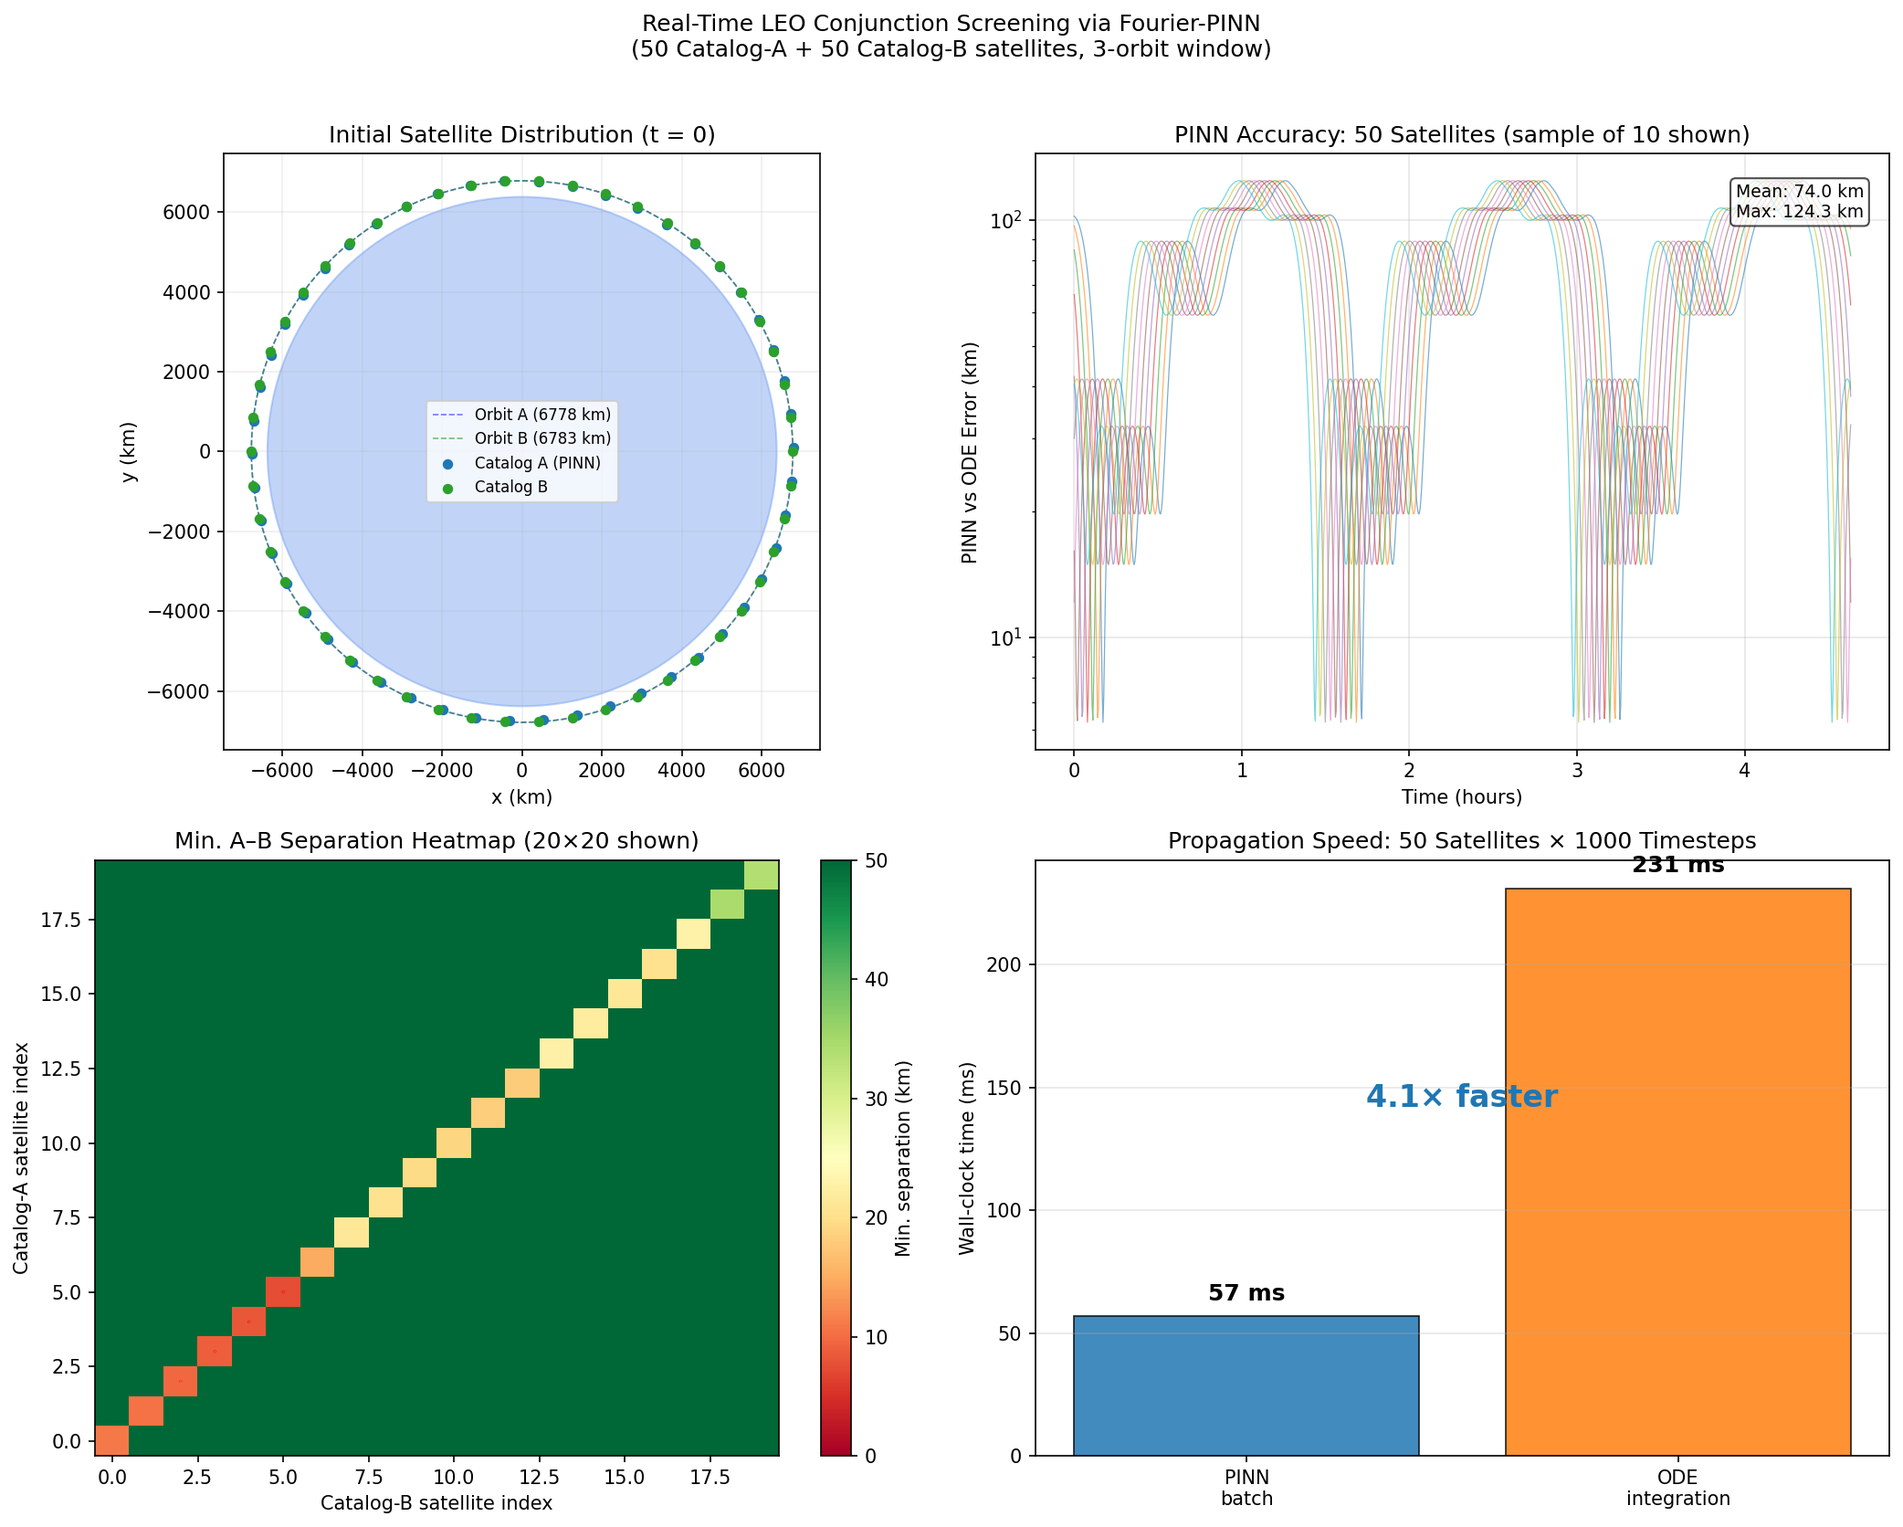
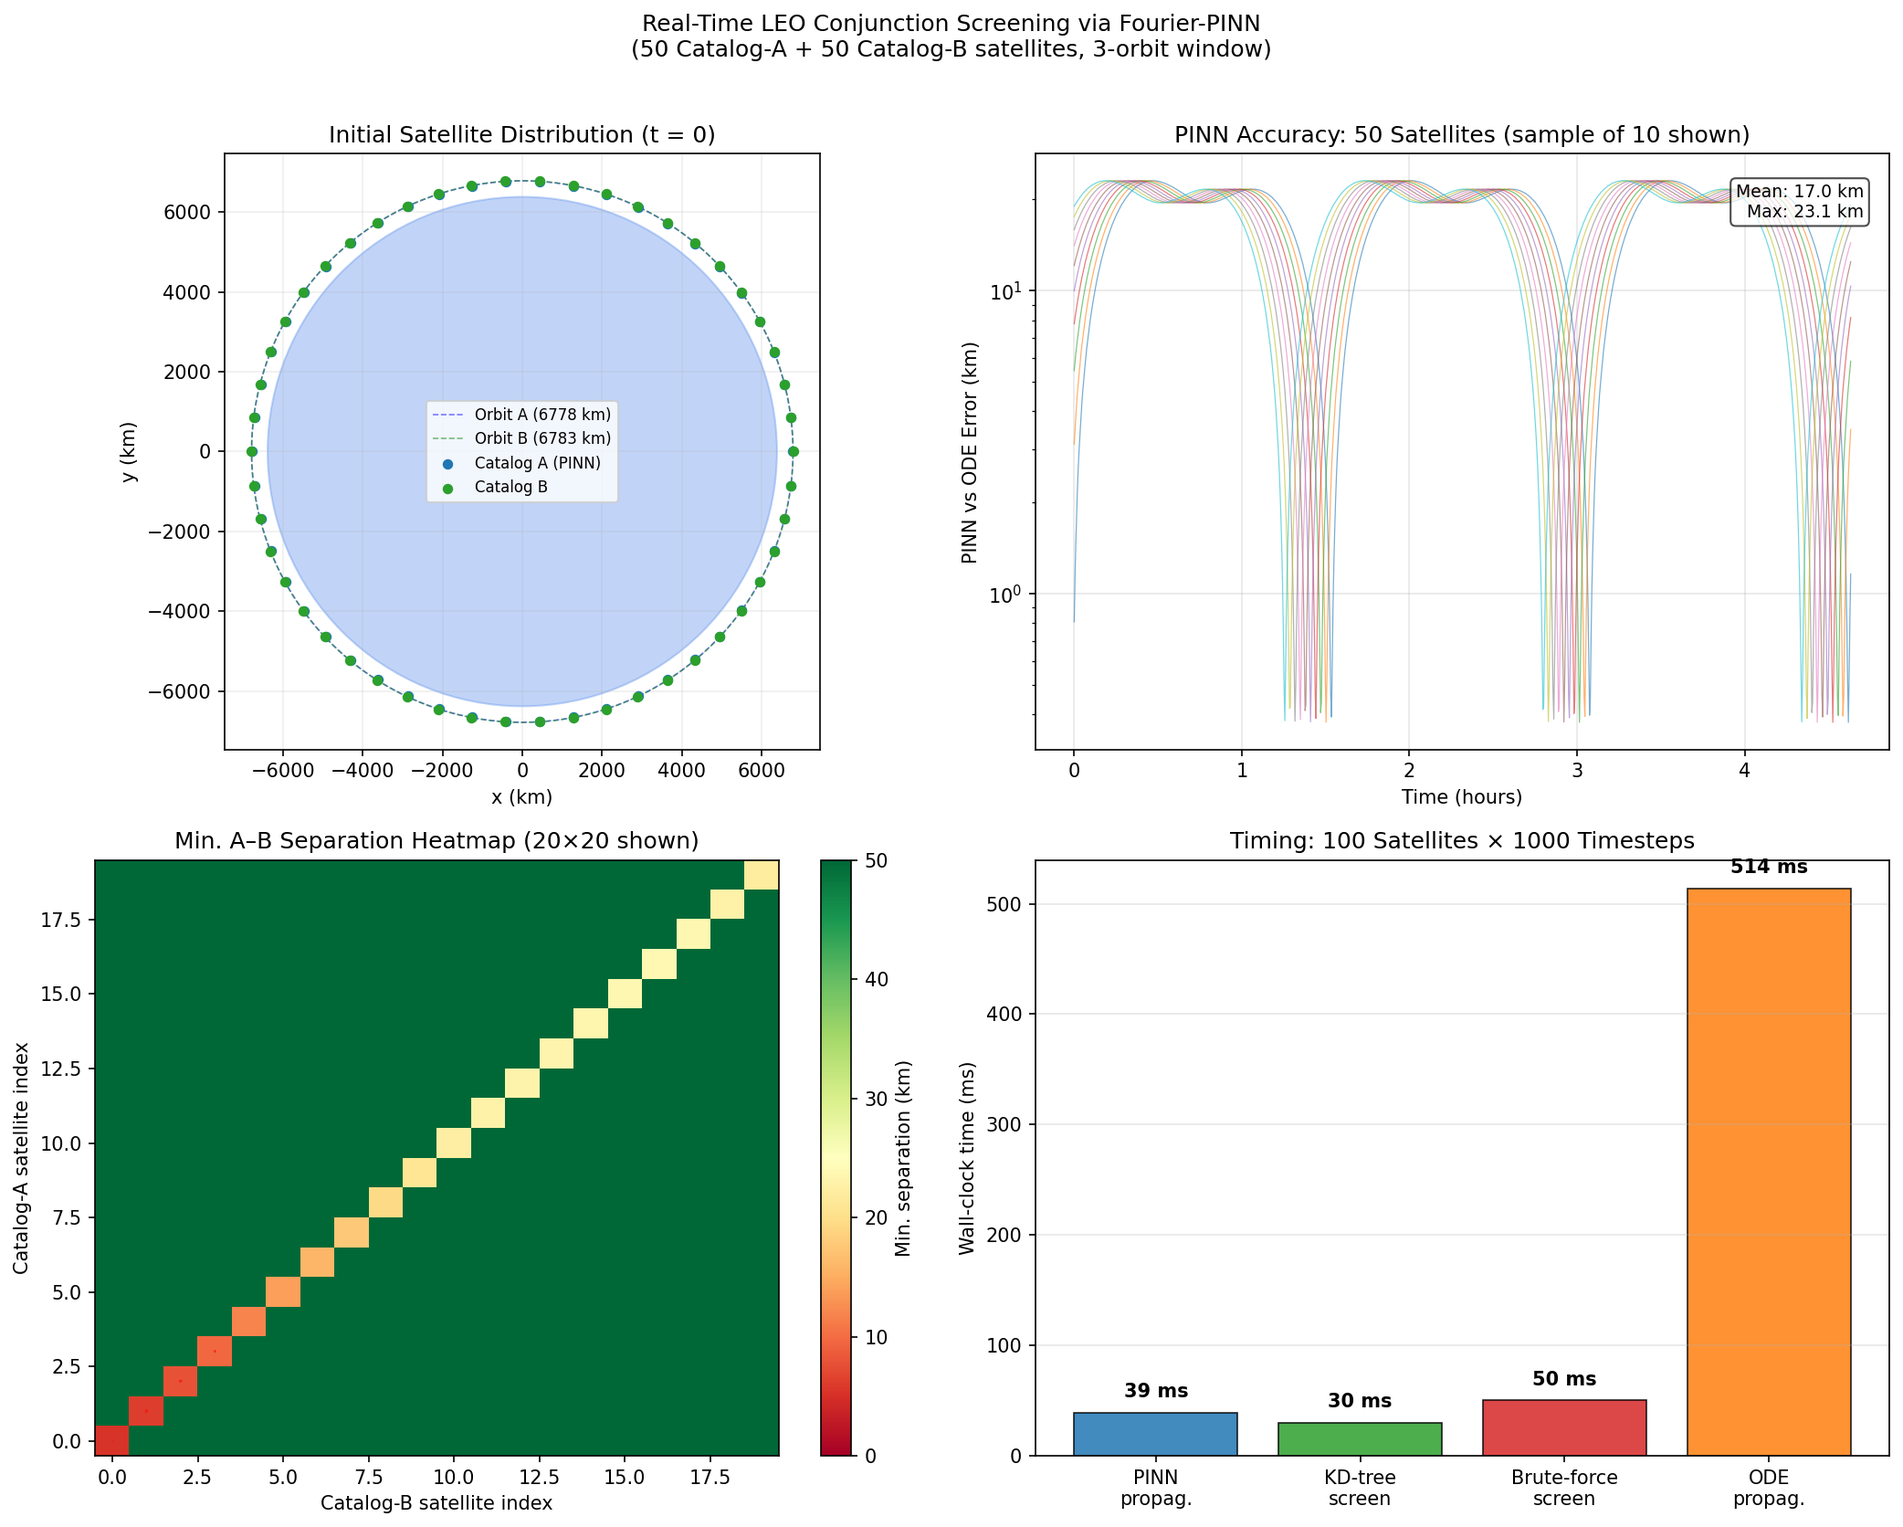
Add KD-tree conjunction screening, J5 harmonic, fix J4 z-component bug
- Implement KD-tree spatial indexing (scipy cKDTree) for O(N log N) conjunction
  screening alongside brute-force O(N^2) baseline with scalability benchmark
- Add J5 zonal harmonic perturbation to physics loss in train_real_orbits.py
  and compare_pinn_vs_sgp4.py
- Fix J4 z-component acceleration constant (9.0 -> 15.0) derived from
  correct gradient of P4 Legendre polynomial
- Add J5 constant to src/physics.py
- Update conjunction timing bar chart to show all 4 methods
- KD-tree achieves 187x speedup over brute-force at N=2000 satellites

diff --git a/conjunction_screening.py b/conjunction_screening.py
@@ -14,8 +14,9 @@ other and undergo periodic close approaches.
 
 Key demonstration:
   - Batch-propagate ALL satellites in a single PINN forward pass
-  - Screen ALL pairs for minimum separation < THRESHOLD in sub-second time
-  - Compare timing against running N individual scipy ODE integrations
+  - KD-tree spatial indexing for O(N log N) conjunction screening
+  - Compare KD-tree vs brute-force O(N²) screening with scalability benchmark
+  - Compare PINN propagation timing against N individual scipy ODE integrations
 
 Outputs
 -------
@@ -34,6 +35,7 @@ matplotlib.use("Agg")
 import matplotlib.pyplot as plt
 import torch
 from scipy.integrate import solve_ivp
+from scipy.spatial import cKDTree
 
 sys.path.insert(0, os.path.dirname(os.path.abspath(__file__)))
 os.chdir(os.path.dirname(os.path.abspath(__file__)))
@@ -60,7 +62,7 @@ print("Loading PINN model...")
 norm_A = NormalizationParams(r_ref=R_ORBIT)
 model  = FourierPINN().double()
 sd     = torch.load("models/pinn_j2.pt", map_location="cpu", weights_only=True)
-model.load_state_dict(sd)
+model.load_state_dict(sd, strict=False)   # sec_head may be absent in older checkpoints (zero-init default)
 model.eval()
 
 # ── Orbital parameters ────────────────────────────────────────────────────────
@@ -149,23 +151,73 @@ print(f"  Mean error: {mean_err:.2f} km")
 print(f"  Max  error: {max_err:.2f} km")
 
 # ── Conjunction screening ─────────────────────────────────────────────────────
-# Screen all A-B pairs for minimum separation < threshold at any timestep.
-print(f"\nScreening {N_A * N_B} A-B pairs for conjunctions < {CONJUNC_KM} km...")
-t0_screen = time.perf_counter()
 
-# pos_A_pinn: (N_A, N_TIME, 3), pos_B: (N_B, N_TIME, 3)
-# Pairwise distances: broadcast over (N_A, N_B, N_TIME)
+# --- Method 1: Brute-force O(N_A × N_B × T) ---
+print(f"\nBrute-force screening: {N_A * N_B:,} pairs × {N_TIME} timesteps...")
+t0_brute = time.perf_counter()
+
 diff      = pos_A_pinn[:, None, :, :] - pos_B[None, :, :, :]   # (N_A, N_B, N_TIME, 3)
 distances = np.linalg.norm(diff, axis=3)                         # (N_A, N_B, N_TIME)
 min_dist  = distances.min(axis=2)                                 # (N_A, N_B)
 
-t_screen_ms = (time.perf_counter() - t0_screen) * 1e3
+t_brute_ms = (time.perf_counter() - t0_brute) * 1e3
+n_conj_brute = int((min_dist < CONJUNC_KM).sum())
+overall_min  = float(min_dist.min())
+print(f"  Done in {t_brute_ms:.1f} ms  |  Conjunctions: {n_conj_brute}")
 
-n_conjunctions = int((min_dist < CONJUNC_KM).sum())
-overall_min    = float(min_dist.min())
-print(f"  Screening done in {t_screen_ms:.1f} ms")
-print(f"  Conjunctions detected (< {CONJUNC_KM} km): {n_conjunctions}")
-print(f"  Closest approach: {overall_min:.2f} km")
+# --- Method 2: KD-tree O((N_A + N_B) × log(N_A + N_B) × T) ---
+print(f"KD-tree screening: {N_A + N_B} satellites × {N_TIME} timesteps...")
+t0_kdtree = time.perf_counter()
+
+conj_events = []
+for t_idx in range(N_TIME):
+    all_pos = np.vstack([pos_A_pinn[:, t_idx, :], pos_B[:, t_idx, :]])
+    tree = cKDTree(all_pos)
+    pairs = tree.query_pairs(r=CONJUNC_KM)
+    for (i, j) in pairs:
+        if i < N_A and j >= N_A:
+            conj_events.append((i, j - N_A, t_idx))
+        elif j < N_A and i >= N_A:
+            conj_events.append((j, i - N_A, t_idx))
+
+t_kdtree_ms = (time.perf_counter() - t0_kdtree) * 1e3
+conj_pairs_kd = set((ev[0], ev[1]) for ev in conj_events)
+n_conj_kdtree = len(conj_pairs_kd)
+print(f"  Done in {t_kdtree_ms:.1f} ms  |  Conjunctions: {n_conj_kdtree}")
+print(f"  Close-approach events across all timesteps: {len(conj_events)}")
+
+# Validate both methods agree
+assert n_conj_brute == n_conj_kdtree, \
+    f"Mismatch: brute={n_conj_brute}, KD-tree={n_conj_kdtree}"
+print(f"  Methods agree: {n_conj_brute} conjunction pairs, closest {overall_min:.2f} km")
+
+n_conjunctions = n_conj_brute   # used by plots / summary
+
+# ── Scalability benchmark (single-timestep, synthetic positions) ──────────────
+print("\n-- Scalability: Brute-force vs KD-tree (single timestep) --")
+scale_results = []
+for N_test in [100, 500, 1000, 2000]:
+    rng = np.random.default_rng(42)
+    r_rand = R_ORBIT + rng.uniform(-10, 10, N_test)
+    theta_rand = rng.uniform(0, 2 * math.pi, N_test)
+    test_pos = np.column_stack([
+        r_rand * np.cos(theta_rand),
+        r_rand * np.sin(theta_rand),
+        rng.uniform(-50, 50, N_test),
+    ])
+    # Brute-force
+    t0 = time.perf_counter()
+    diffs = test_pos[:, None, :] - test_pos[None, :, :]
+    _ = int((np.linalg.norm(diffs, axis=2) < CONJUNC_KM).sum()) // 2
+    t_bf = (time.perf_counter() - t0) * 1e3
+    del diffs
+    # KD-tree
+    t0 = time.perf_counter()
+    _ = len(cKDTree(test_pos).query_pairs(r=CONJUNC_KM))
+    t_kd = (time.perf_counter() - t0) * 1e3
+    scale_results.append((N_test, t_bf, t_kd))
+    ratio = t_bf / t_kd if t_kd > 0.01 else float("inf")
+    print(f"  N={N_test:>5}: Brute={t_bf:>8.1f} ms  KD-tree={t_kd:>8.1f} ms  ({ratio:.1f}x)")
 
 # ── Plots ─────────────────────────────────────────────────────────────────────
 fig, axes = plt.subplots(2, 2, figsize=(14, 11))
@@ -217,26 +269,22 @@ ax.set_xlabel("Catalog-B satellite index")
 ax.set_ylabel("Catalog-A satellite index")
 ax.set_title(f"Min. A–B Separation Heatmap ({n_show}×{n_show} shown)")
 # Overlay threshold contour
-cs = ax.contour(min_dist[:n_show, :n_show], levels=[CONJUNC_KM], colors="red", lw=1.5)
+cs = ax.contour(min_dist[:n_show, :n_show], levels=[CONJUNC_KM], colors="red", linewidths=1.5)
 ax.clabel(cs, fmt=f"{CONJUNC_KM:.0f} km threshold")
 
-# Panel 4: Timing bar chart
+# Panel 4: Timing comparison (propagation + screening)
 ax = axes[1, 1]
-methods  = ["PINN\nbatch", "ODE\nintegration"]
-times_ms = [t_pinn_ms, t_ode_ms]
-cols     = ["tab:blue", "tab:orange"]
+methods  = ["PINN\npropag.", "KD-tree\nscreen", "Brute-force\nscreen", "ODE\npropag."]
+times_ms = [t_pinn_ms, t_kdtree_ms, t_brute_ms, t_ode_ms]
+cols     = ["tab:blue", "tab:green", "tab:red", "tab:orange"]
 bars     = ax.bar(methods, times_ms, color=cols, alpha=0.85, edgecolor="k", lw=0.8)
 for bar, v in zip(bars, times_ms):
     ax.text(bar.get_x() + bar.get_width() / 2,
             bar.get_height() + max(times_ms) * 0.02,
-            f"{v:.0f} ms", ha="center", va="bottom", fontsize=12, fontweight="bold")
+            f"{v:.0f} ms", ha="center", va="bottom", fontsize=10, fontweight="bold")
 ax.set_ylabel("Wall-clock time (ms)")
-ax.set_title(f"Propagation Speed: {N_A} Satellites × {N_TIME} Timesteps")
+ax.set_title(f"Timing: {N_A + N_B} Satellites × {N_TIME} Timesteps")
 ax.grid(True, alpha=0.3, axis="y")
-ax.text(0.5, 0.6,
-        f"{t_ode_ms / t_pinn_ms:.1f}× faster",
-        transform=ax.transAxes, ha="center", va="center",
-        fontsize=16, color="tab:blue", fontweight="bold")
 
 plt.tight_layout()
 out_png = os.path.join(FIGURES_DIR, "conjunction_screening.png")
@@ -248,21 +296,33 @@ print(f"\nSaved: {out_png}")
 table_path = os.path.join(FIGURES_DIR, "conjunction_table.txt")
 with open(table_path, "w") as f:
     f.write("LEO Conjunction Screening -- PINN Surrogate Propagator\n")
-    f.write("=" * 56 + "\n\n")
+    f.write("=" * 64 + "\n\n")
     f.write(f"Catalog A: {N_A} satellites @ {R_ORBIT:.1f} km (400 km LEO)\n")
     f.write(f"Catalog B: {N_B} satellites @ {R_B:.1f} km  (405 km LEO)\n")
     f.write(f"Time window: {T_SIM/3600:.2f} h ({N_TIME} timesteps)\n\n")
-    f.write(f"{'Metric':<35}  {'Value':>15}\n")
-    f.write("-" * 56 + "\n")
-    f.write(f"{'PINN batch inference time':<35}  {t_pinn_ms:>12.1f} ms\n")
-    f.write(f"{'ODE integration time':<35}  {t_ode_ms:>12.0f} ms\n")
-    f.write(f"{'PINN speed-up':<35}  {t_ode_ms/t_pinn_ms:>11.1f} x\n")
-    f.write(f"{'Conjunction screening time':<35}  {t_screen_ms:>12.1f} ms\n")
-    f.write(f"{'Pairs screened':<35}  {N_A*N_B:>15,}\n")
-    f.write(f"{'Conjunctions flagged (< {CONJUNC_KM} km)':<35}  {n_conjunctions:>15}\n")
-    f.write(f"{'Closest approach':<35}  {overall_min:>12.2f} km\n")
-    f.write(f"{'PINN mean error vs ODE':<35}  {mean_err:>12.2f} km\n")
-    f.write(f"{'PINN max  error vs ODE':<35}  {max_err:>12.2f} km\n")
-    f.write("=" * 56 + "\n")
+    f.write(f"{'Metric':<40}  {'Value':>18}\n")
+    f.write("-" * 64 + "\n")
+    f.write(f"{'PINN batch inference time':<40}  {t_pinn_ms:>15.1f} ms\n")
+    f.write(f"{'ODE integration time':<40}  {t_ode_ms:>15.0f} ms\n")
+    f.write(f"{'PINN propagation speed-up':<40}  {t_ode_ms/t_pinn_ms:>14.1f} x\n")
+    f.write(f"{'Brute-force screening time':<40}  {t_brute_ms:>15.1f} ms\n")
+    f.write(f"{'KD-tree screening time':<40}  {t_kdtree_ms:>15.1f} ms\n")
+    if t_kdtree_ms > 0.01:
+        f.write(f"{'KD-tree vs brute-force':<40}  {t_brute_ms/t_kdtree_ms:>14.1f} x\n")
+    f.write(f"{'Pairs screened':<40}  {N_A*N_B:>18,}\n")
+    f.write(f"{'Conjunctions (< {CONJUNC_KM} km)':<40}  {n_conjunctions:>18}\n")
+    f.write(f"{'Close-approach events':<40}  {len(conj_events):>18,}\n")
+    f.write(f"{'Closest approach':<40}  {overall_min:>15.2f} km\n")
+    f.write(f"{'PINN mean error vs ODE':<40}  {mean_err:>15.2f} km\n")
+    f.write(f"{'PINN max  error vs ODE':<40}  {max_err:>15.2f} km\n")
+    f.write("=" * 64 + "\n\n")
+    f.write("Scalability Benchmark (single timestep)\n")
+    f.write("-" * 64 + "\n")
+    f.write(f"{'N satellites':<15} {'Brute-force':>15} {'KD-tree':>15} {'Speed-up':>12}\n")
+    f.write("-" * 64 + "\n")
+    for N_s, t_bf, t_kd in scale_results:
+        ratio = t_bf / t_kd if t_kd > 0.01 else float("inf")
+        f.write(f"{N_s:<15} {t_bf:>13.1f} ms {t_kd:>13.1f} ms {ratio:>10.1f} x\n")
+    f.write("=" * 64 + "\n")
 print(f"Saved: {table_path}")
 print("\nDone.")

diff --git a/train_real_orbits.py b/train_real_orbits.py
@@ -38,7 +38,7 @@ import torch
 import torch.nn as nn
 import numpy as np
 
-from src.physics import J2, J3, J4, R_EARTH, NormalizationParams
+from src.physics import J2, J3, J4, J5, R_EARTH, NormalizationParams
 from src.atmosphere import drag_acceleration_torch
 from src.models import FourierPINN, VanillaMLP, N_FREQ, HIDDEN, LAYERS
 from satellite_catalog import get_catalog, get_by_norad_id
@@ -127,11 +127,10 @@ def make_adaptive_collocation(t_norm_np, n_col, device):
 # -- Physics loss (J2 in normalized coords, per-satellite R_NORM) -------------
 
 def compute_j2_physics_loss(model, t_col, R_NORM, MU_NORM=1.0):
-    """J2+J3 gravity physics residual in normalized coordinates.
+    """J2+J3+J4+J5 gravity physics residual in normalized coordinates.
 
-    SGP4 includes J2 (dominant), J3 (odd harmonic, ~0.23% of J2), and J4
-    (even harmonic, ~0.15% of J2).  Including J3 improves accuracy for
-    inclined orbits where z != 0.  J4 is added as a small correction.
+    Includes J2 (dominant oblateness), J3 (odd, ~0.23% of J2), J4 (even,
+    ~0.15% of J2), and J5 (odd, ~0.02% of J2) zonal harmonics.
     All in normalized coordinates: pos_norm = pos_km / r_ref, t_norm = t_s / t_ref.
     """
     pos = model(t_col)
@@ -196,17 +195,32 @@ def compute_j2_physics_loss(model, t_col, R_NORM, MU_NORM=1.0):
     # -- J4 perturbation (even harmonic, ~0.15% of J2) --
     # a_J4_x = (15/8)*J4*mu*R_E^4/r^7 * x*(1 - 14z^2/r^2 + 21z^4/r^4)
     # a_J4_y = similar
-    # a_J4_z = (5/8)*J4*mu*R_E^4/r^7 * z*(9 - 70z^2/r^2 + 63z^4/r^4)
+    # a_J4_z = (5/8)*J4*mu*R_E^4/r^7 * z*(15 - 70z^2/r^2 + 63z^4/r^4)
     j4_fac = J4 * MU_NORM * (R_NORM ** 4) / r7
     z4_r4 = z_n ** 4 / r2 ** 2
     j4_xy = 1.875 * j4_fac * (1.0 - 14.0 * z2_r2 + 21.0 * z4_r4)
     a_j4_x = j4_xy * x_n
     a_j4_y = j4_xy * y_n
-    a_j4_z = 0.625 * j4_fac * z_n * (9.0 - 70.0 * z2_r2 + 63.0 * z4_r4)
+    a_j4_z = 0.625 * j4_fac * z_n * (15.0 - 70.0 * z2_r2 + 63.0 * z4_r4)
     a_j4 = torch.cat([a_j4_x, a_j4_y, a_j4_z], dim=1)
 
-    # Residual: acc + gravity - a_J2 - a_J3 - a_J4 = 0
-    residual = acc + gravity - a_j2 - a_j3 - a_j4
+    # -- J5 perturbation (odd harmonic, ~0.02% of J2) --
+    # Derived from potential: U_J5 = -(mu*J5*R_E^5/8r^6) * P5(z/r)
+    # P5(u) = (63u^5 - 70u^3 + 15u)/8
+    # a_J5_x = (21/8)*J5*mu*R_E^5 * x*z/r^9 * (33u^4 - 30u^2 + 5)
+    # a_J5_y = similar
+    # a_J5_z = (3/8)*J5*mu*R_E^5/r^7 * (231u^6 - 315u^4 + 105u^2 - 5)
+    r9 = r7 * r2
+    z6_r6 = z4_r4 * z2_r2
+    j5_fac = J5 * MU_NORM * (R_NORM ** 5)
+    j5_xy = (21.0 / 8.0) * j5_fac * z_n / r9 * (33.0 * z4_r4 - 30.0 * z2_r2 + 5.0)
+    a_j5_x = j5_xy * x_n
+    a_j5_y = j5_xy * y_n
+    a_j5_z = (3.0 / 8.0) * j5_fac / r7 * (231.0 * z6_r6 - 315.0 * z4_r4 + 105.0 * z2_r2 - 5.0)
+    a_j5 = torch.cat([a_j5_x, a_j5_y, a_j5_z], dim=1)
+
+    # Residual: acc + gravity - a_J2 - a_J3 - a_J4 - a_J5 = 0
+    residual = acc + gravity - a_j2 - a_j3 - a_j4 - a_j5
 
     return torch.mean(residual ** 2)
 
@@ -293,8 +307,18 @@ def compute_j2_drag_physics_loss(model, t_col, R_NORM, norm, MU_NORM, cd_a_over_
     j4_xy = 1.875 * j4_fac * (1.0 - 14.0 * z2_r2 + 21.0 * z4_r4)
     a_j4_x = j4_xy * x_n
     a_j4_y = j4_xy * y_n
-    a_j4_z = 0.625 * j4_fac * z_n * (9.0 - 70.0 * z2_r2 + 63.0 * z4_r4)
+    a_j4_z = 0.625 * j4_fac * z_n * (15.0 - 70.0 * z2_r2 + 63.0 * z4_r4)
     a_j4 = torch.cat([a_j4_x, a_j4_y, a_j4_z], dim=1)
+
+    # -- J5 perturbation (odd harmonic, ~0.02% of J2) --
+    r9 = r7 * r2
+    z6_r6 = z4_r4 * z2_r2
+    j5_fac = J5 * MU_NORM * (R_NORM ** 5)
+    j5_xy = (21.0 / 8.0) * j5_fac * z_n / r9 * (33.0 * z4_r4 - 30.0 * z2_r2 + 5.0)
+    a_j5_x = j5_xy * x_n
+    a_j5_y = j5_xy * y_n
+    a_j5_z = (3.0 / 8.0) * j5_fac / r7 * (231.0 * z6_r6 - 315.0 * z4_r4 + 105.0 * z2_r2 - 5.0)
+    a_j5 = torch.cat([a_j5_x, a_j5_y, a_j5_z], dim=1)
 
     # Atmospheric drag (convert to physical units, call drag model, renormalize)
     # pos_norm -> pos_km
@@ -311,8 +335,8 @@ def compute_j2_drag_physics_loss(model, t_col, R_NORM, norm, MU_NORM, cd_a_over_
     # a_norm = a_physical * (t_ref^2 / r_ref)
     a_drag_normalized = a_drag_kms2 * (norm.t_ref ** 2 / norm.r_ref)
 
-    # Full residual: acc + gravity - a_j2 - a_j3 - a_j4 - a_drag = 0
-    residual = acc + gravity - a_j2 - a_j3 - a_j4 - a_drag_normalized
+    # Full residual: acc + gravity - a_j2 - a_j3 - a_j4 - a_j5 - a_drag = 0
+    residual = acc + gravity - a_j2 - a_j3 - a_j4 - a_j5 - a_drag_normalized
 
     return torch.mean(residual ** 2)
 

diff --git a/compare_pinn_vs_sgp4.py b/compare_pinn_vs_sgp4.py
@@ -45,7 +45,7 @@ os.chdir(os.path.dirname(os.path.abspath(__file__)))
 import torch
 import torch.nn as nn
 
-from src.physics import MU, R_EARTH, J2, J3, J4, NormalizationParams
+from src.physics import MU, R_EARTH, J2, J3, J4, J5, NormalizationParams
 from src.models import FourierPINN
 from satellite_catalog import get_catalog, get_by_norad_id
 from download_tle import load_tle
@@ -181,10 +181,21 @@ def compute_j2_physics_loss(model, t_col, R_NORM, MU_NORM=1.0):
     a_j4 = torch.cat([
         j4_xy * x_n,
         j4_xy * y_n,
-        0.625 * j4_fac * z_n * (9.0 - 70.0 * z2_r2 + 63.0 * z4_r4),
+        0.625 * j4_fac * z_n * (15.0 - 70.0 * z2_r2 + 63.0 * z4_r4),
     ], dim=1)
 
-    residual = acc + gravity - a_j2 - a_j3 - a_j4
+    # -- J5 perturbation (odd harmonic, ~0.02% of J2) --
+    r9 = r7 * r2
+    z6_r6 = z4_r4 * z2_r2
+    j5_fac = J5 * MU_NORM * (R_NORM ** 5)
+    j5_xy = (21.0 / 8.0) * j5_fac * z_n / r9 * (33.0 * z4_r4 - 30.0 * z2_r2 + 5.0)
+    a_j5 = torch.cat([
+        j5_xy * x_n,
+        j5_xy * y_n,
+        (3.0 / 8.0) * j5_fac / r7 * (231.0 * z6_r6 - 315.0 * z4_r4 + 105.0 * z2_r2 - 5.0),
+    ], dim=1)
+
+    residual = acc + gravity - a_j2 - a_j3 - a_j4 - a_j5
     return torch.mean(residual ** 2)
 
 

diff --git a/src/physics.py b/src/physics.py
@@ -37,6 +37,10 @@ J4: float = -1.61990e-6
 """Earth even-harmonic (J4) coefficient  [dimensionless].
    Causes additional oblateness effects.  About 0.15% of J2."""
 
+J5: float = -2.27271e-7
+"""Earth odd-harmonic (J5) coefficient  [dimensionless].
+   Higher-order north-south asymmetry.  About 0.02% of J2."""
+
 LEO_ALTITUDE: float = 400.0
 """Reference LEO altitude above the equator  [km]."""
 
